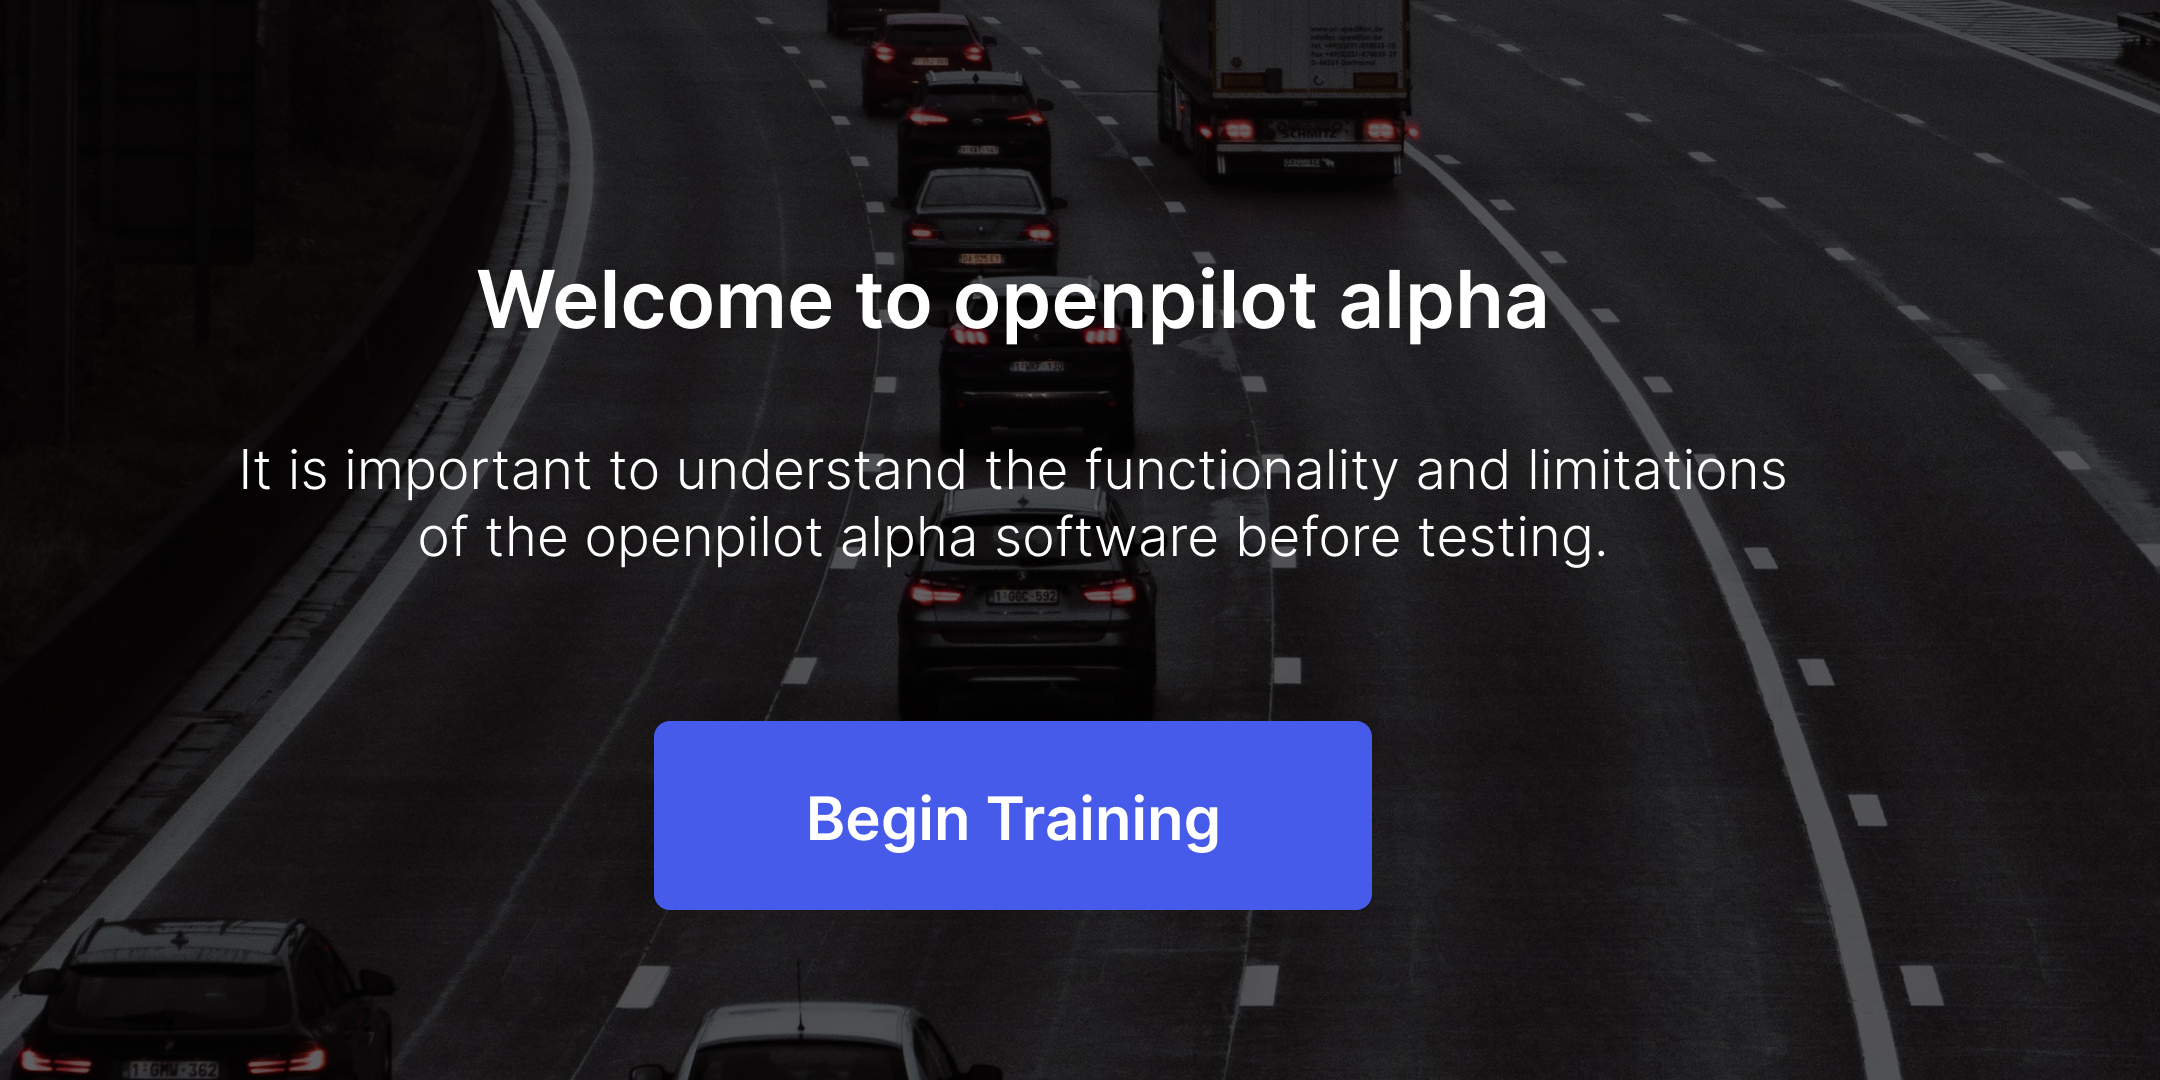
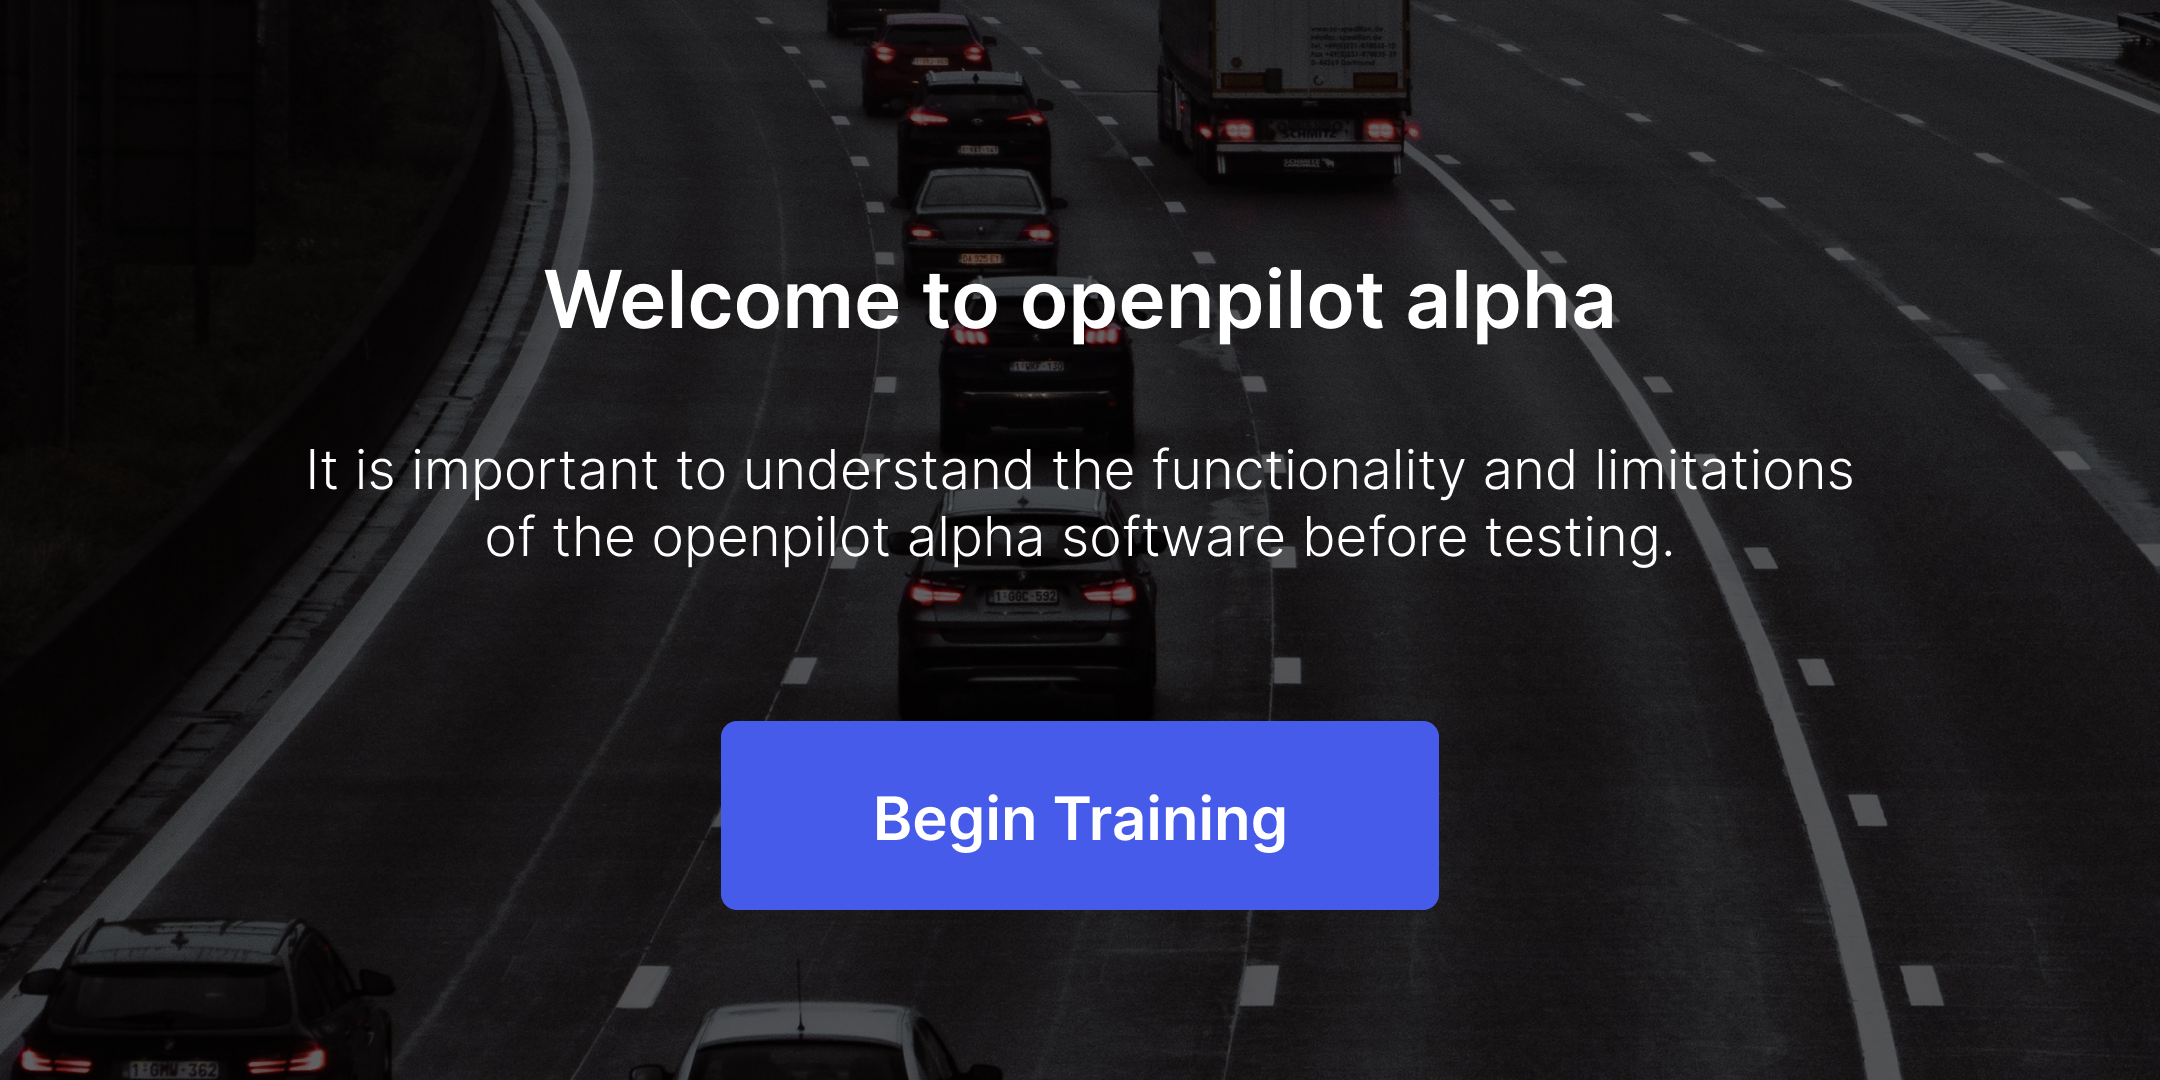
training guide updates (#21674)
* add progress bar

* shorter

* update lane change speed

* fix

* center

* fix cutoff

diff --git a/selfdrive/ui/qt/offroad/onboarding.cc b/selfdrive/ui/qt/offroad/onboarding.cc
@@ -34,12 +34,18 @@ void TrainingGuide::paintEvent(QPaintEvent *event) {
   QPainter painter(this);
 
   QRect bg(0, 0, painter.device()->width(), painter.device()->height());
-  QBrush bgBrush("#000000");
-  painter.fillRect(bg, bgBrush);
+  painter.fillRect(bg, QColor("#000000"));
 
   QRect rect(image.rect());
   rect.moveCenter(bg.center());
   painter.drawImage(rect.topLeft(), image);
+
+  // progress bar
+  if (currentIndex > 0 && currentIndex < (boundingRect.size() - 2)) {
+    const int h = 20;
+    const int w = (currentIndex / (float)(boundingRect.size() - 2)) * width();
+    painter.fillRect(QRect(0, height() - h, w, h), QColor("#465BEA"));
+  }
 }
 
 void TermsPage::showEvent(QShowEvent *event) {
